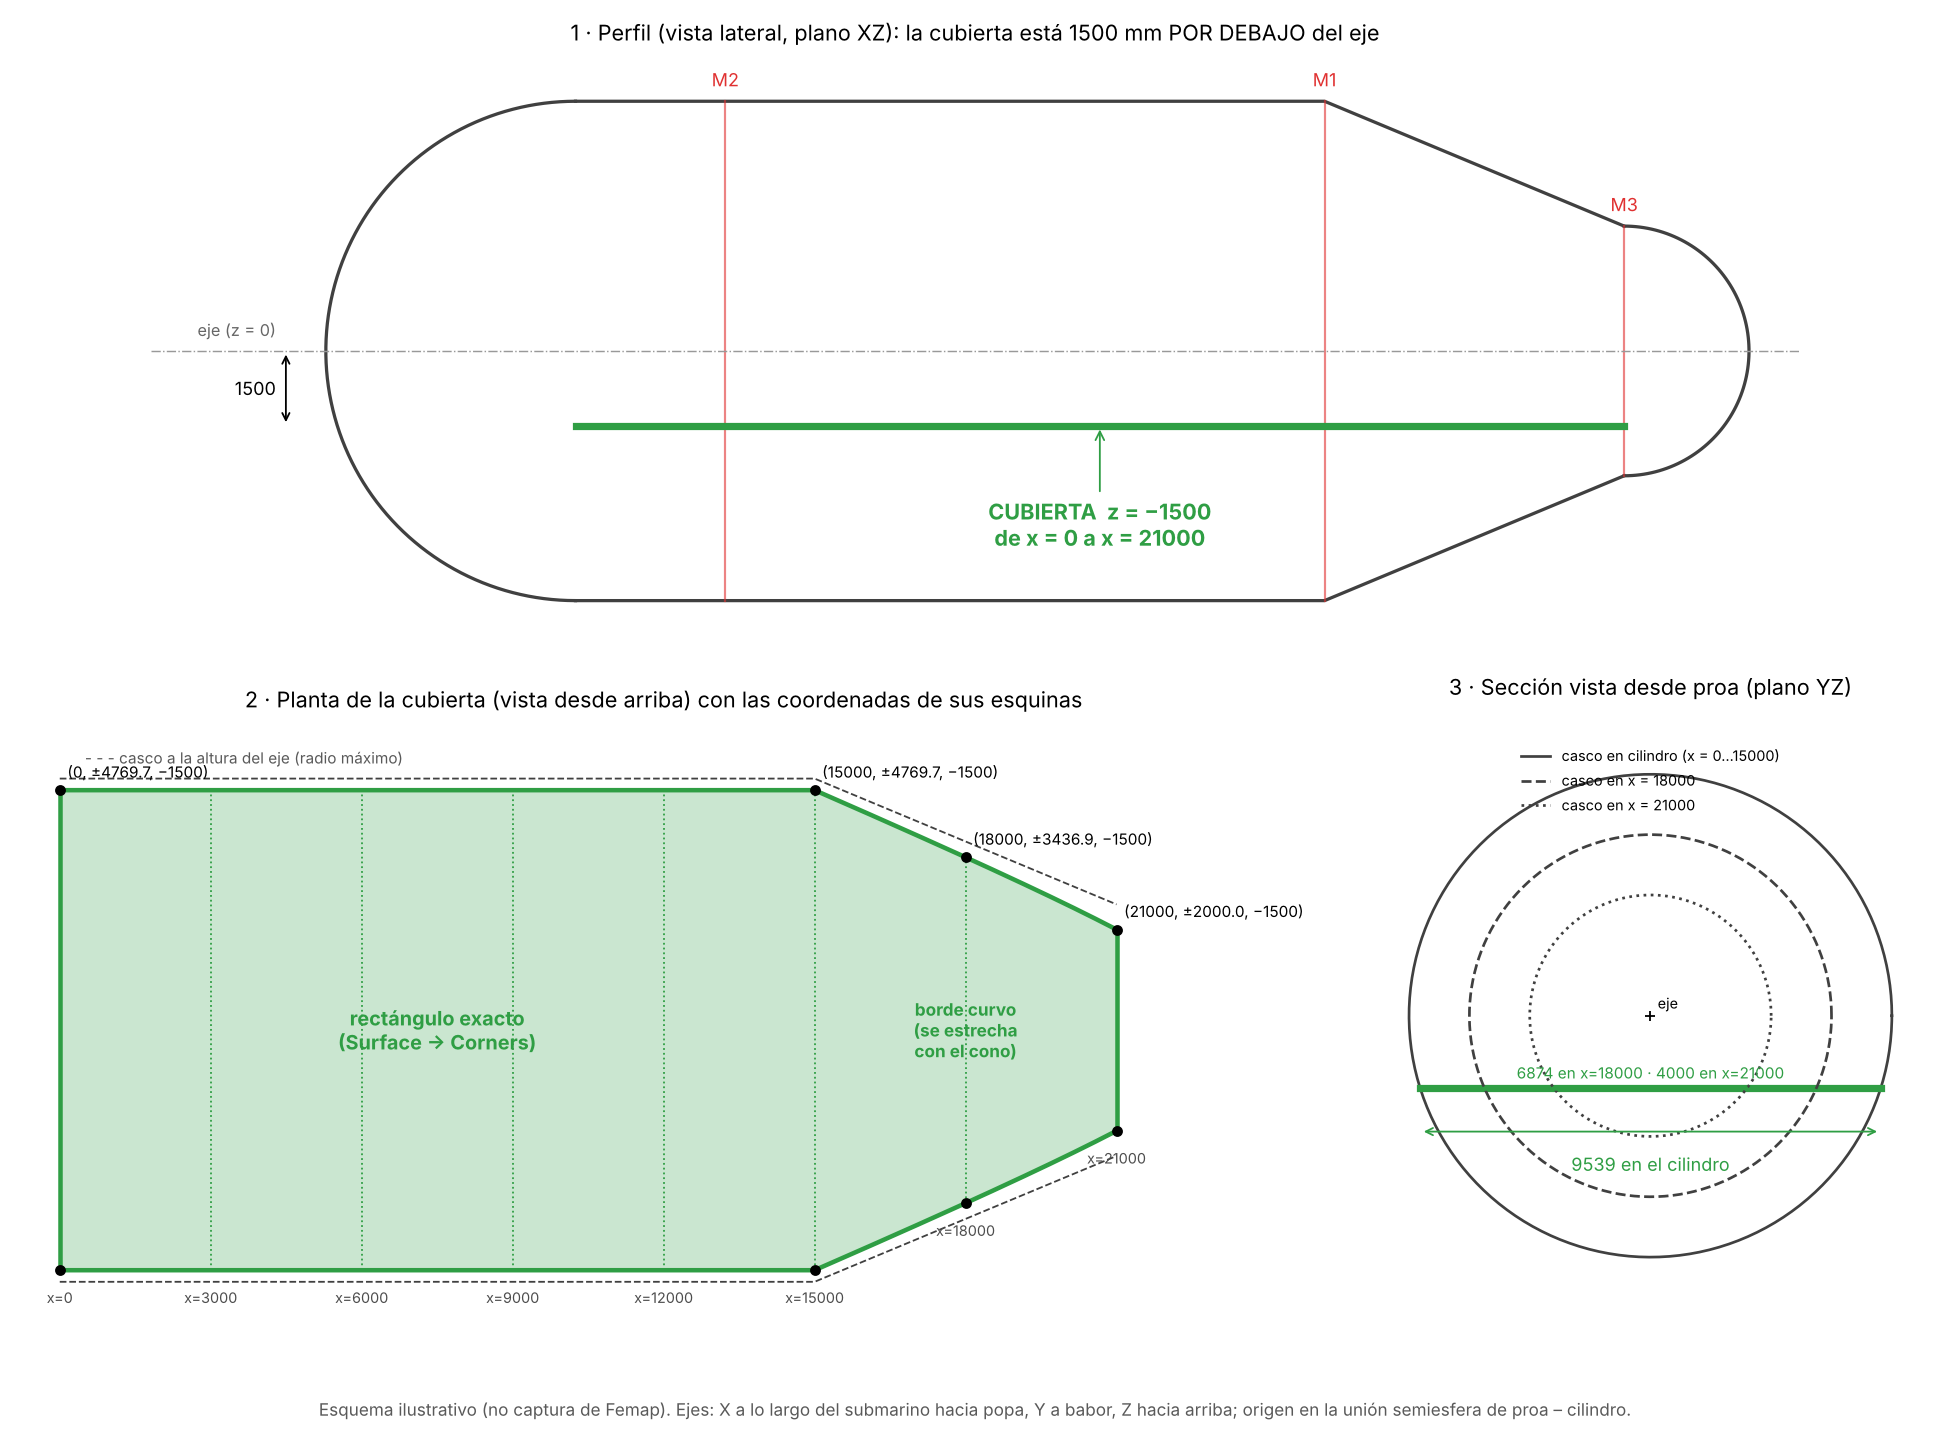
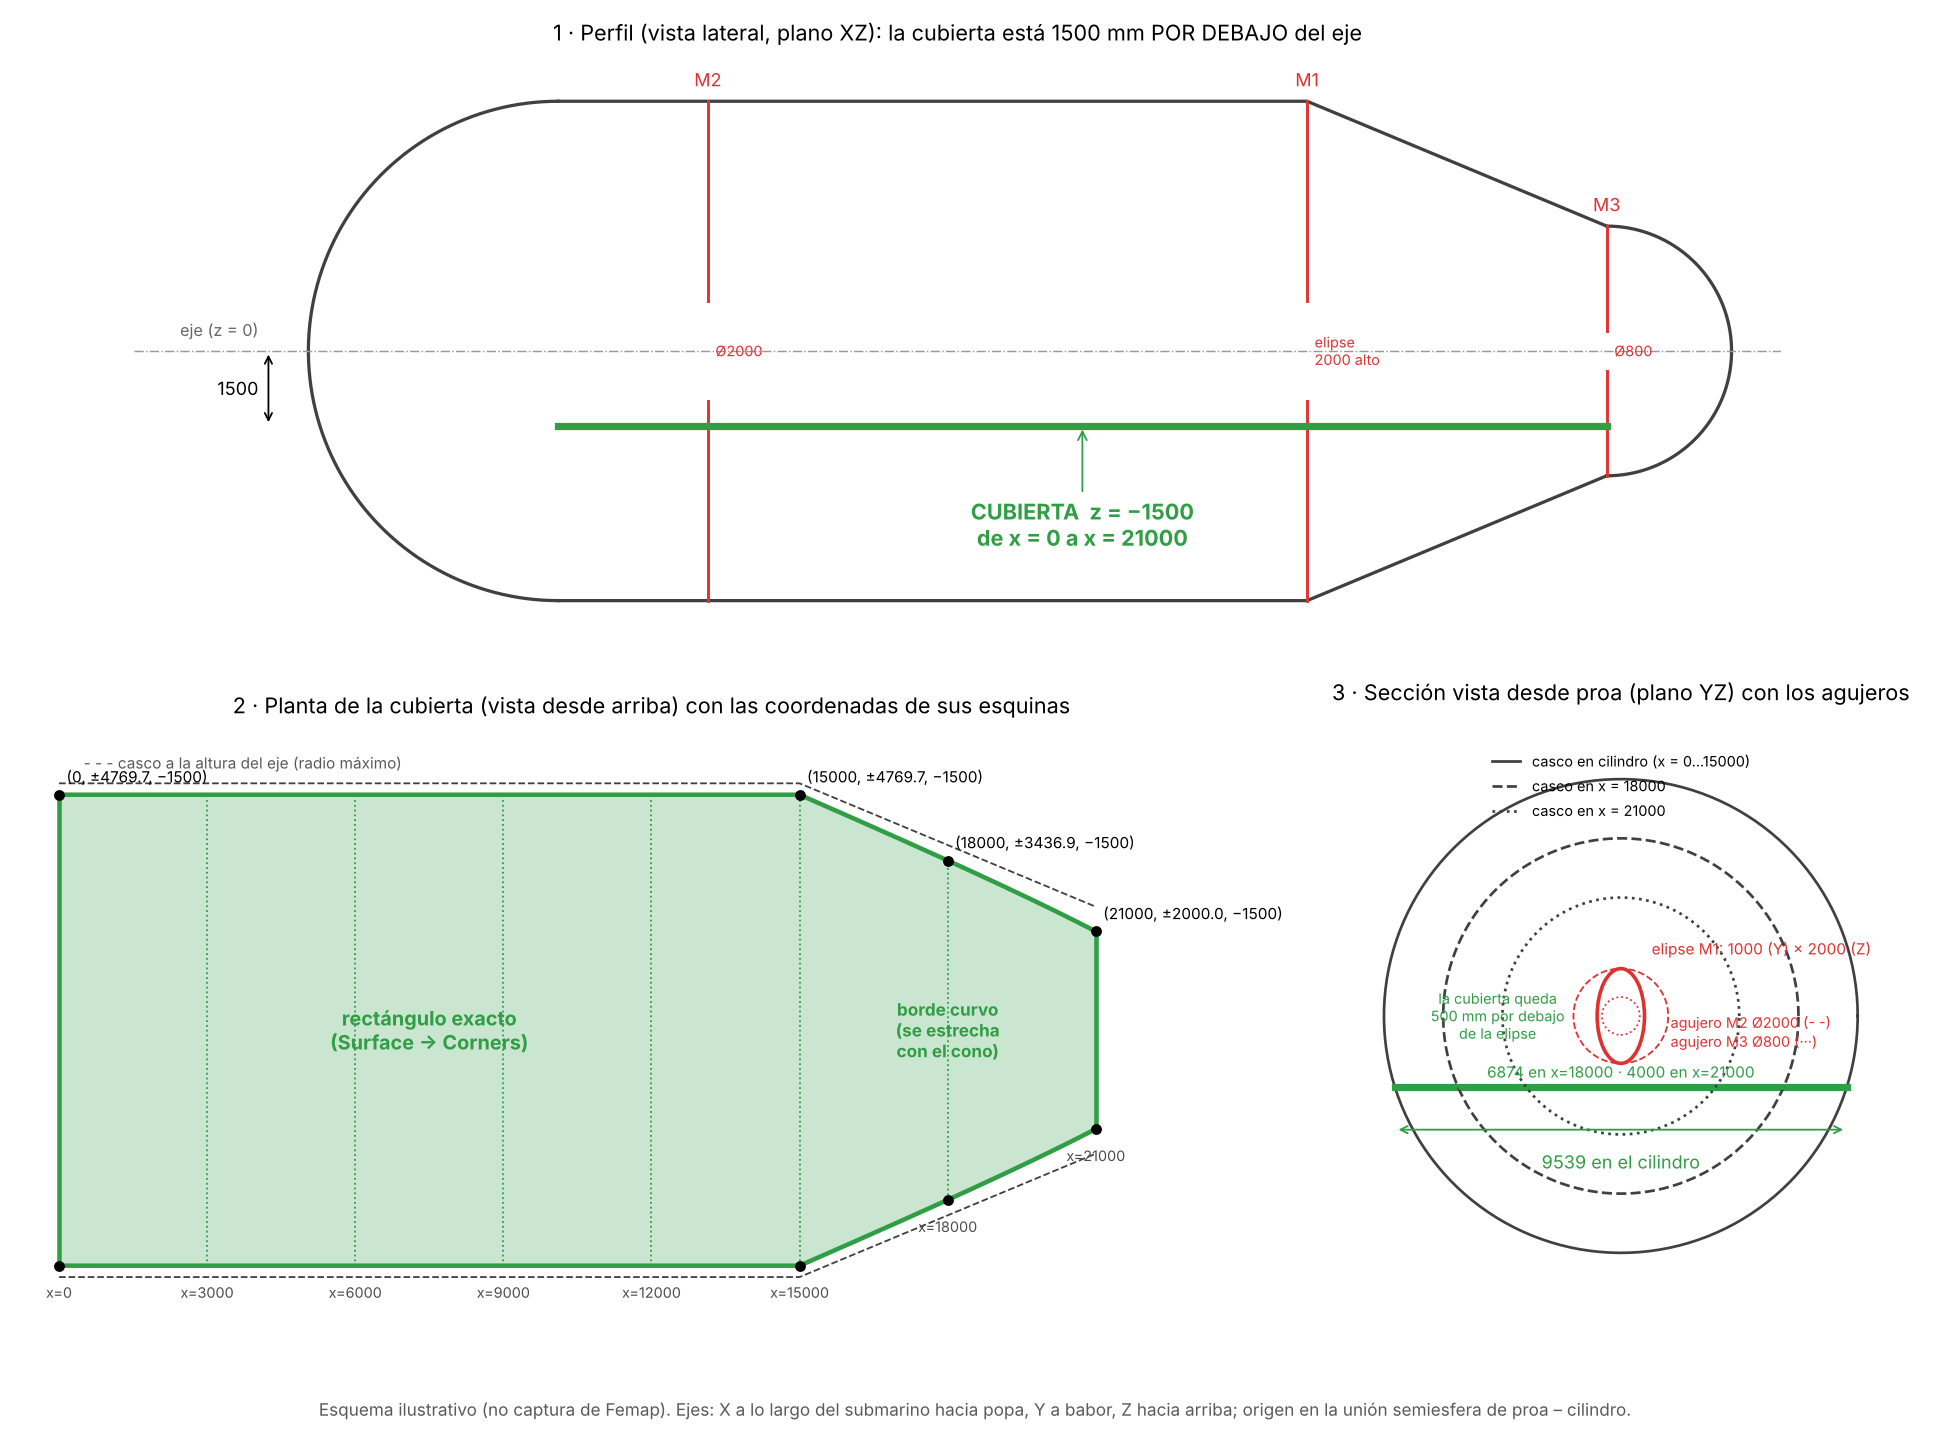
Incluir agujeros de mamparos y elipse en el esquema de la cubierta
Claude-Session: https://claude.ai/code/session_01PjTra4Rqiq2yFj3FvSGMT1

diff --git a/ejercicios/submarino-mef-2026/esquema_cubierta.py b/ejercicios/submarino-mef-2026/esquema_cubierta.py
@@ -22,8 +22,11 @@ ax1.plot(R*np.cos(th), R*np.sin(th), color=hull, lw=1.8)
 ax1.plot([0, 15000, 21000], [R, R, r2], color=hull, lw=1.8); ax1.plot([0, 15000, 21000], [-R, -R, -r2], color=hull, lw=1.8)
 th = np.linspace(-np.pi/2, np.pi/2, 100)
 ax1.plot(21000 + r2*np.cos(th), r2*np.sin(th), color=hull, lw=1.8)
-for x, r in ((3000, R), (15000, R), (21000, r2)):
-    ax1.plot([x, x], [-r, r], color="#e03131", lw=1.2, alpha=0.6)
+for x, r, hz in ((3000, R, 1000), (15000, R, 1000), (21000, r2, 400)):
+    ax1.plot([x, x], [hz, r], color="#e03131", lw=1.6); ax1.plot([x, x], [-r, -hz], color="#e03131", lw=1.6)
+ax1.text(3150, 0, "Ø2000", color="#e03131", fontsize=8, va="center")
+ax1.text(15150, 0, "elipse\n2000 alto", color="#e03131", fontsize=8, va="center")
+ax1.text(21150, 0, "Ø800", color="#e03131", fontsize=8, va="center")
 ax1.plot([0, 21000], [zd, zd], color=deck, lw=4)
 ax1.axhline(0, color="0.6", ls="-.", lw=0.8)
 ax1.annotate("CUBIERTA  z = −1500\nde x = 0 a x = 21000", (10500, zd), (10500, -3900), ha="center",
@@ -65,9 +68,16 @@ for x, ls, lab in ((0, "-", "cilindro (x = 0…15000)"), (18000, "--", "x = 1800
 ax3.annotate("", (-half_w(0), zd - 900), (half_w(0), zd - 900), arrowprops=dict(arrowstyle="<->", color=deck))
 ax3.text(0, zd - 1350, "9539 en el cilindro", ha="center", color=deck, fontsize=10, va="top")
 ax3.text(0, zd + 200, "6874 en x=18000 · 4000 en x=21000", ha="center", color=deck, fontsize=8.5)
-ax3.plot(0, 0, "+", color="k"); ax3.text(150, 150, "eje", fontsize=8)
+from matplotlib.patches import Ellipse, Circle
+ax3.add_patch(Ellipse((0, 0), 1000, 2000, fill=False, ec="#e03131", lw=2))
+ax3.add_patch(Circle((0, 0), 1000, fill=False, ec="#e03131", lw=1, ls="--"))
+ax3.add_patch(Circle((0, 0), 400, fill=False, ec="#e03131", lw=1, ls=":"))
+ax3.text(650, 1300, "elipse M1: 1000 (Y) × 2000 (Z)", color="#e03131", fontsize=8.5)
+ax3.text(1050, -250, "agujero M2 Ø2000 (- -)", color="#e03131", fontsize=8)
+ax3.text(1050, -650, "agujero M3 Ø800 (···)", color="#e03131", fontsize=8)
+ax3.text(-2600, 0, "la cubierta queda\n500 mm por debajo\nde la elipse", fontsize=8, color=deck, ha="center", va="center")
 ax3.legend(loc="upper center", fontsize=8, frameon=False, bbox_to_anchor=(0.5, 1.02))
-ax3.set_title("3 · Sección vista desde proa (plano YZ)", fontsize=12, pad=28)
+ax3.set_title("3 · Sección vista desde proa (plano YZ) con los agujeros", fontsize=12, pad=28)
 ax3.set_aspect("equal"); ax3.set_xlim(-5800, 5800); ax3.set_ylim(-6200, 5600); ax3.axis("off")
 
 fig.text(0.5, 0.01, "Esquema ilustrativo (no captura de Femap). Ejes: X a lo largo del submarino hacia popa, Y a babor, Z hacia arriba; "
